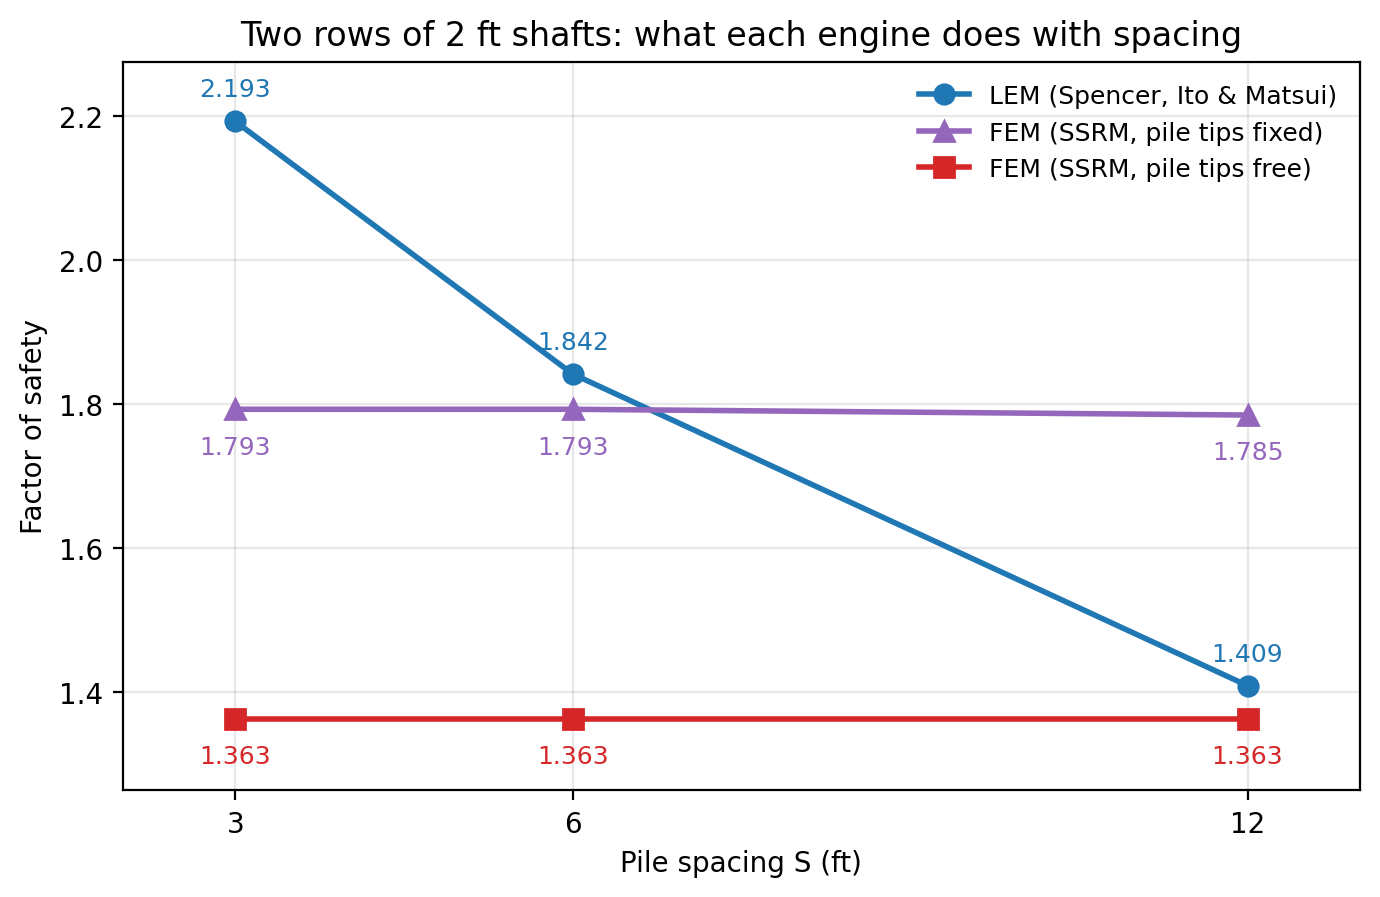
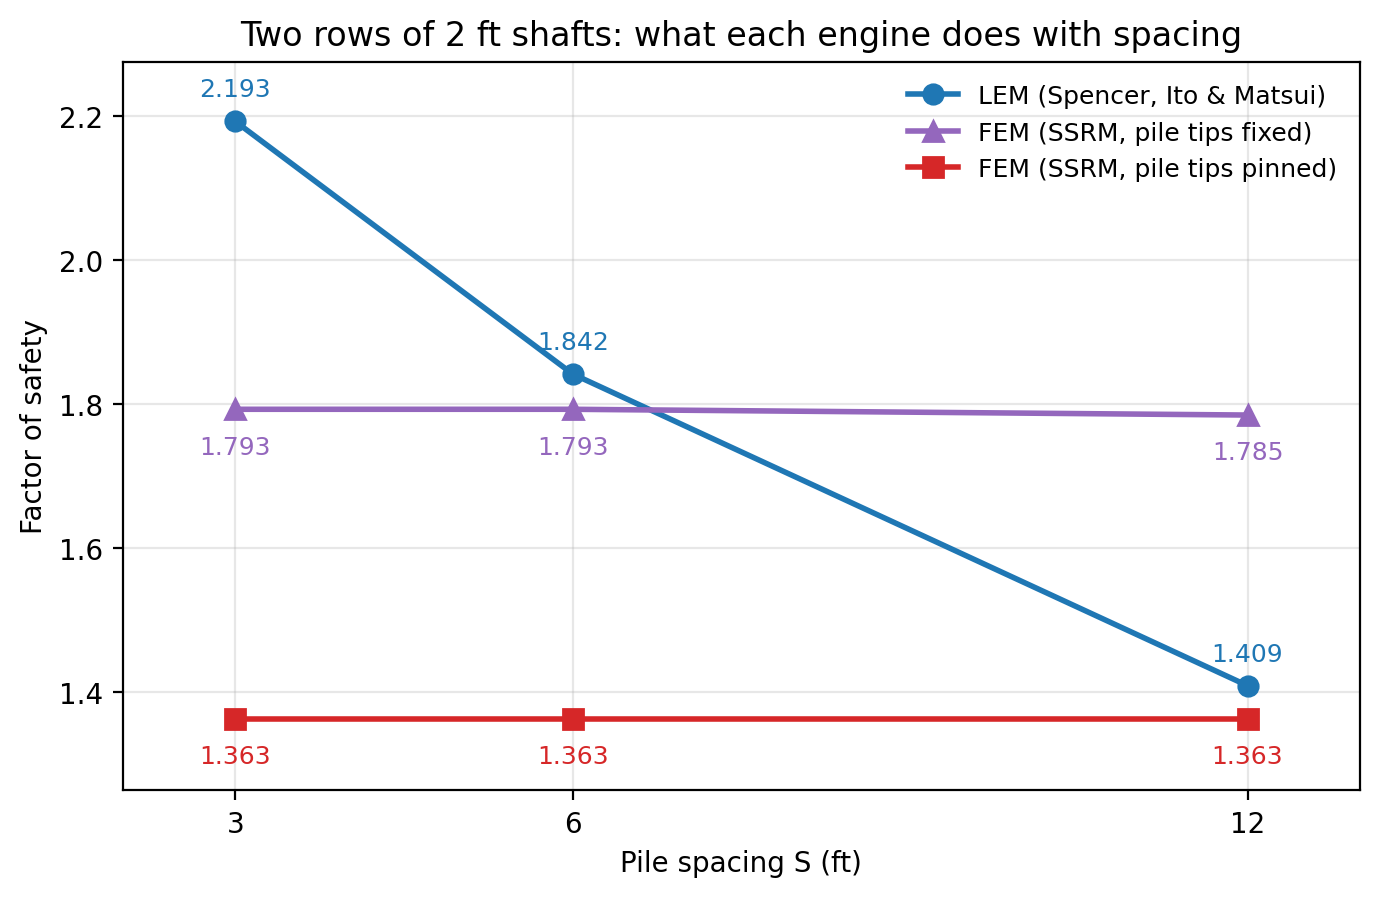
docs(tutorials): FEM-3 — sweep legend says pile tips pinned; the base boundary pins them
Claude-Session: https://claude.ai/code/session_01XjjT2aBxw8gY7EFdpoUcpj

Changed region(s): [[0.6543, 0.0936, 0.9659, 0.2185]]

diff --git a/tools/make_tutorial_figures.py b/tools/make_tutorial_figures.py
@@ -4978,7 +4978,7 @@ def _fem03_spacing_figure(lem, fixed, free, _u):
         series = [
             (lem, "LEM (Spencer, Ito & Matsui)", "#1f77b4", "o-", 9),
             (fixed, "FEM (SSRM, pile tips fixed)", "#9467bd", "^-", -16),
-            (free, "FEM (SSRM, pile tips free)", "#d62728", "s-", -16),
+            (free, "FEM (SSRM, pile tips pinned)", "#d62728", "s-", -16),
         ]
         if not with_fixed:
             series = [series[0], series[2]]
